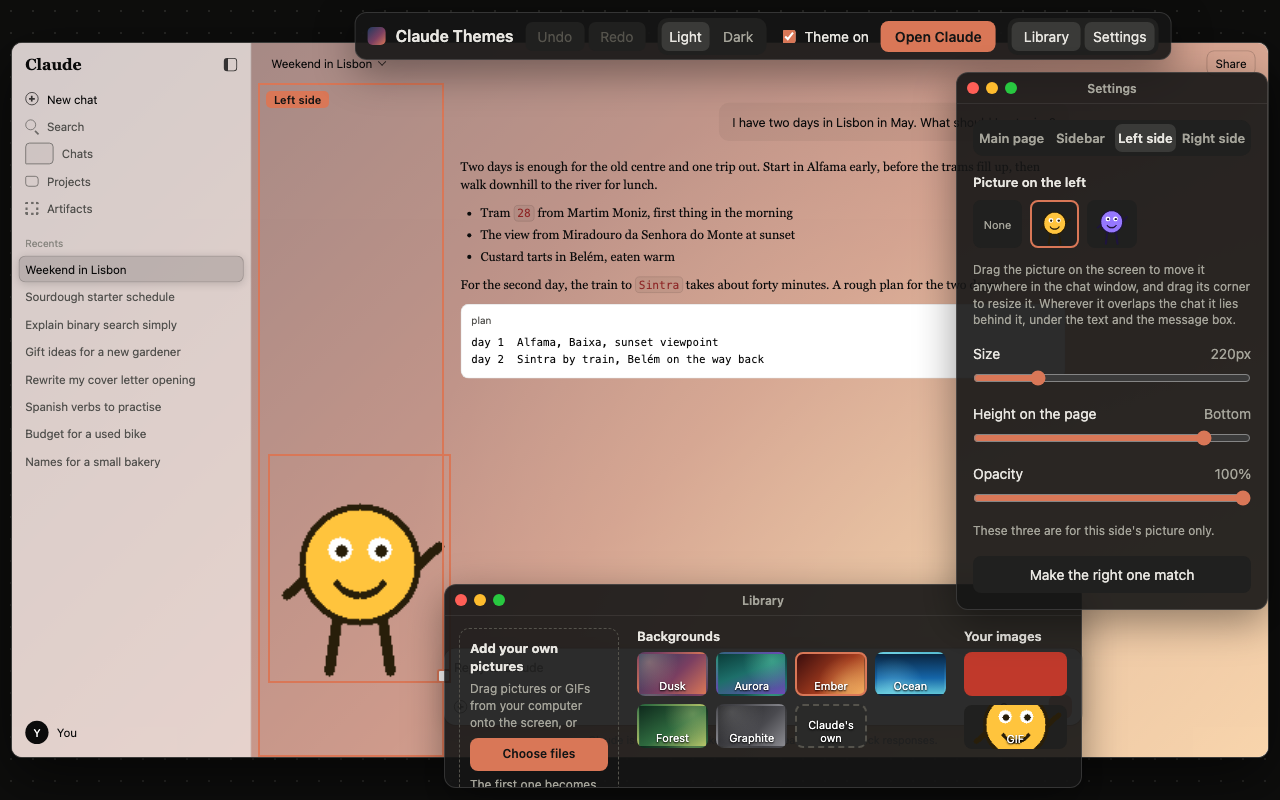
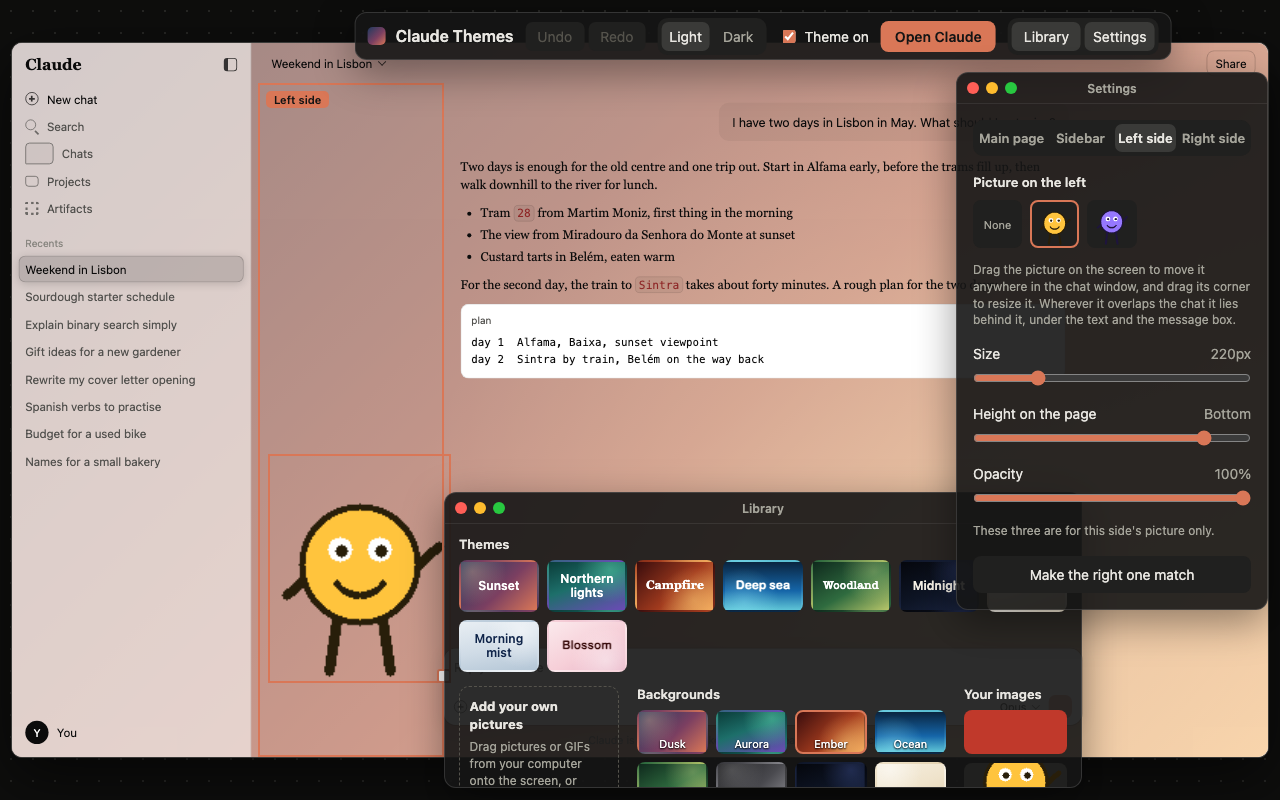
Version 0.19.0: release notes, new screenshots and a promo tile
The changelog, README and store guide describe the ready-made themes, the
readability warning, the shortcut and keyboard use. The three screenshots
are remade with Paperback and Midnight switched on. tools/make-promo.sh
makes the 440 x 280 tile the Chrome Web Store shows beside a listing.

Changed region(s): [[0.3438, 0.5938, 0.8438, 1.0]]

diff --git a/settings.js b/settings.js
@@ -2,7 +2,7 @@
 
 // Keep this the same as "version" in manifest.json. The editor compares the two to
 // tell whether Chrome is still running an older copy of the extension.
-const filesVersion = "0.18.0";
+const filesVersion = "0.19.0";
 
 const defaults = {
     enabled: true,

diff --git a/README.md b/README.md
@@ -30,6 +30,9 @@ The toolbar icon opens the editor over the Claude page. Its three windows (the b
 Library and the Settings) float like windows on a desktop: drag one by its title bar, drag
 an edge to resize it, and use the three dots to close it, fold it away or put it back.
 
+To start from a finished look, click one of the **Themes** at the top of the Library. To
+build your own:
+
 1. Click a part of the page: the main page, the sidebar, or the space on either side of
    the chat.
 2. Click a picture in the Library to put it there, or drag one in from your computer.
@@ -40,7 +43,9 @@ an edge to resize it, and use the three dots to close it, fold it away or put it
 
 ## What it does
 
-- Six built-in gradient presets
+- Nine ready-made themes. One click switches the whole look: background, text colour,
+  font and border. Five follow Claude's light and dark mode. Four look the same in both
+- Ten built-in backgrounds, each a wash of colour
 - Drop your own images onto the editor, or upload one with cropping: drag and zoom to
   choose the part that shows
 - Every image you save is kept, so you can switch between them without uploading again
@@ -75,6 +80,11 @@ an edge to resize it, and use the three dots to close it, fold it away or put it
   bigger than the empty space carries on behind the chat, never on top of it
 - Text colour and font for the chat, for backgrounds that make the normal text hard to
   read, and a separate colour for the words Claude marks out (normally crimson)
+- A warning when the text is hard to read on the background in light mode, dark mode or
+  both, with a button that fixes it when one colour reads in both
+- A keyboard shortcut for the editor: Alt+Shift+E, or Option+Shift+E on a Mac. Change it
+  at `chrome://extensions/shortcuts`
+- The editor works from the keyboard and with a screen reader
 - Upload your own frame picture; its thickness is measured for you
 - Works in light and dark mode
 - Save the whole theme to a file, with its pictures, and load it again: as a backup, on
@@ -95,8 +105,10 @@ an edge to resize it, and use the three dots to close it, fold it away or put it
 
 - Chrome, and browsers built on it, only. The Claude desktop app cannot be themed.
 - It depends on how claude.ai is built, which Anthropic can change at any time.
-- A stretched background, zoom and dragging are for saved images. The six built-in
+- A stretched background, zoom and dragging are for saved images. The ten built-in
   backgrounds are washes of colour.
+- The readability warning reads a picture at 64 places and ignores where on the page the
+  text is. Treat it as a hint.
 
 ## For developers
 
@@ -126,7 +138,8 @@ what changed in each version.
 | `options.html`, `options.js`, `options.css` | The upload page, opened from the editor: crop an image for the screen or the sidebar and add it to your saved images |
 | `frame-upload.js` | The upload page: read and save your own frame picture |
 | `stickers.js` | The upload page: save a picture or GIF for beside the chat |
-| `themes.js` | The editor: save the theme to a file, load one, reset everything, and the first-time note |
+| `themes.js` | The editor: the ready-made themes, saving the theme to a file, loading one, resetting everything, the first-time note, and the foot of the Library |
+| `readable.js` | The editor: works out whether the text can be read on the background, and shows the warning |
 | `icons/` | The extension's icon, as a drawing (`icon.svg`) and at the four sizes Chrome uses |
 | `tools/` | Scripts that make the icons, the screenshots and the zip for the Chrome Web Store |
 | `docs/` | Screenshots, and what to put in the Chrome Web Store listing |

diff --git a/docs/STORE.md b/docs/STORE.md
@@ -39,13 +39,15 @@ The description already says "Unofficial, not made by Anthropic".
 > part of the page, click a picture, and see it change. Drag pictures to move them. Undo
 > takes back any step.
 >
-> - Backgrounds: six built in, or your own pictures and animated GIFs
+> - Nine ready-made themes: one click for a whole look
+> - Backgrounds: ten built in, or your own pictures and animated GIFs
 > - Stretch, zoom and drag a background to fit the chat window or the whole window
 > - A separate background, text colour, font and border for the sidebar
 > - Pictures and GIFs beside the chat, each with its own size, place and opacity
 > - Ink and pop-out borders that never move or resize anything
 > - Save a whole theme to a file, with its pictures, to back it up or share it
-> - Works in light and dark mode
+> - Works in light and dark mode, and warns you when your text colour is hard to read
+> - Works from the keyboard and with a screen reader
 >
 > What it leaves alone: the message box, menus and code blocks keep Claude's own look, and
 > pages that are not chats are shown as Claude draws them.
@@ -62,7 +64,8 @@ private in it, and take screenshots of the Claude window at 1280 x 800. Up to fi
 
 **Icon.** `icons/icon-128.png`.
 
-**Small promo tile** (440 x 280, optional). Not made yet.
+**Small promo tile** (440 x 280, optional). `docs/promo-440x280.png`, made by
+`tools/make-promo.sh`.
 
 ## The privacy tab
 

diff --git a/CHANGELOG.md b/CHANGELOG.md
@@ -3,6 +3,24 @@
 What changed in each version, newest first. Versions before 0.18.0 were made over two days
 and are grouped.
 
+## 0.19.0 (2026-10-06)
+
+- Nine ready-made themes at the top of the Library. One click switches the whole look.
+  Your saved pictures are kept, and Undo takes the switch back.
+- Four new backgrounds: Midnight, Paper, Mist and Blossom.
+- A warning under the text colours when the text is hard to read on the background, in
+  Claude's light mode, its dark mode or both. A button fixes it when one colour reads in
+  both.
+- A keyboard shortcut for the editor: Alt+Shift+E, or Option+Shift+E on a Mac. Change it
+  at `chrome://extensions/shortcuts`.
+- The editor works without a mouse. Every control has a name a screen reader can say,
+  choices say whether they are on, and the keyboard's place is ringed.
+- A question such as "Remove this picture?" starts on Cancel, so Enter never removes
+  anything.
+- If Chrome cannot store a change, the editor puts the change back and says so.
+- The foot of the Library shows the version and links to the issue page and the privacy
+  statement.
+
 ## 0.18.0 (2026-10-05)
 
 - An icon.
